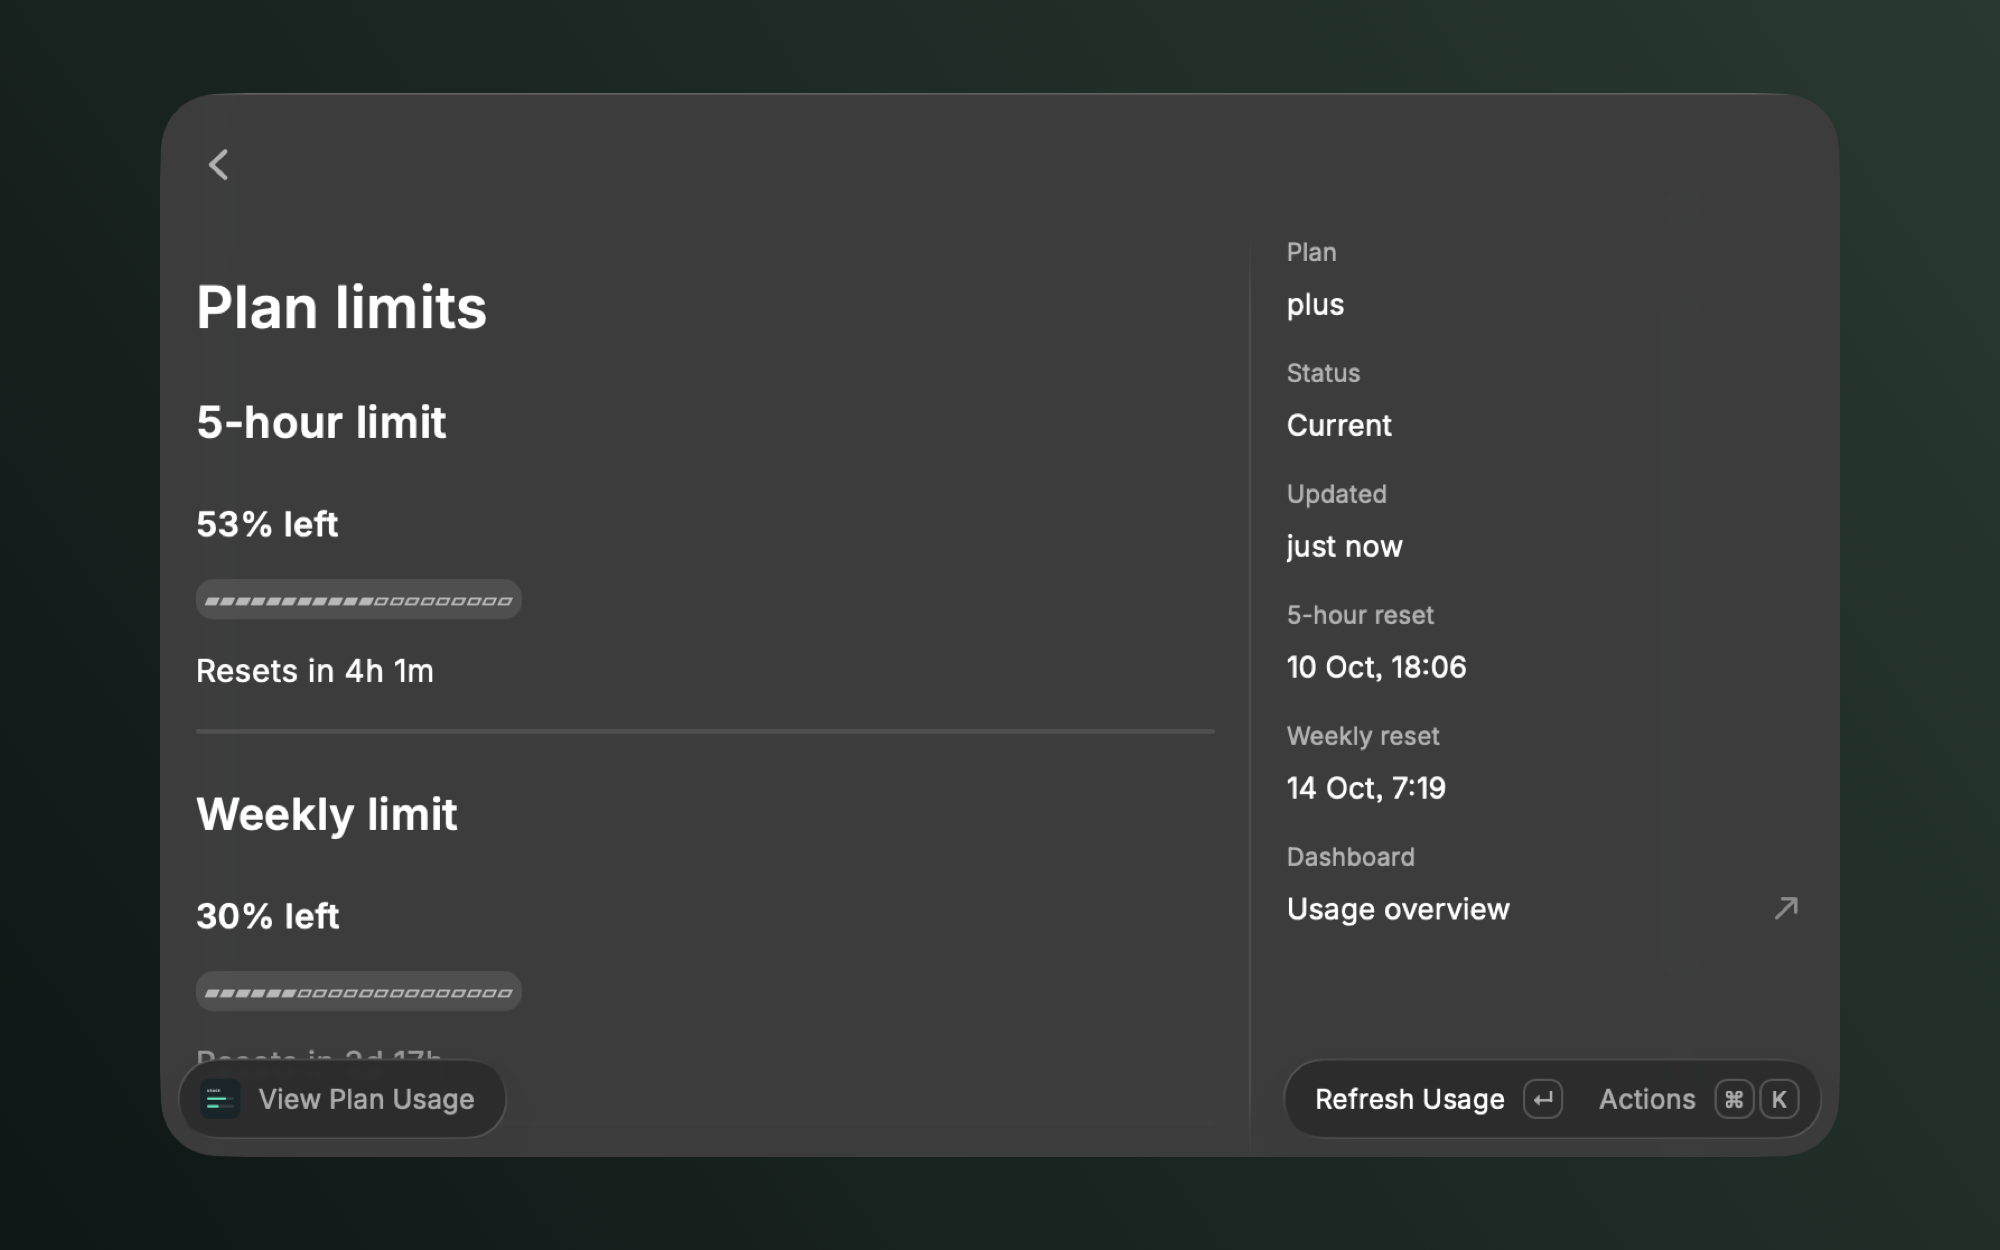
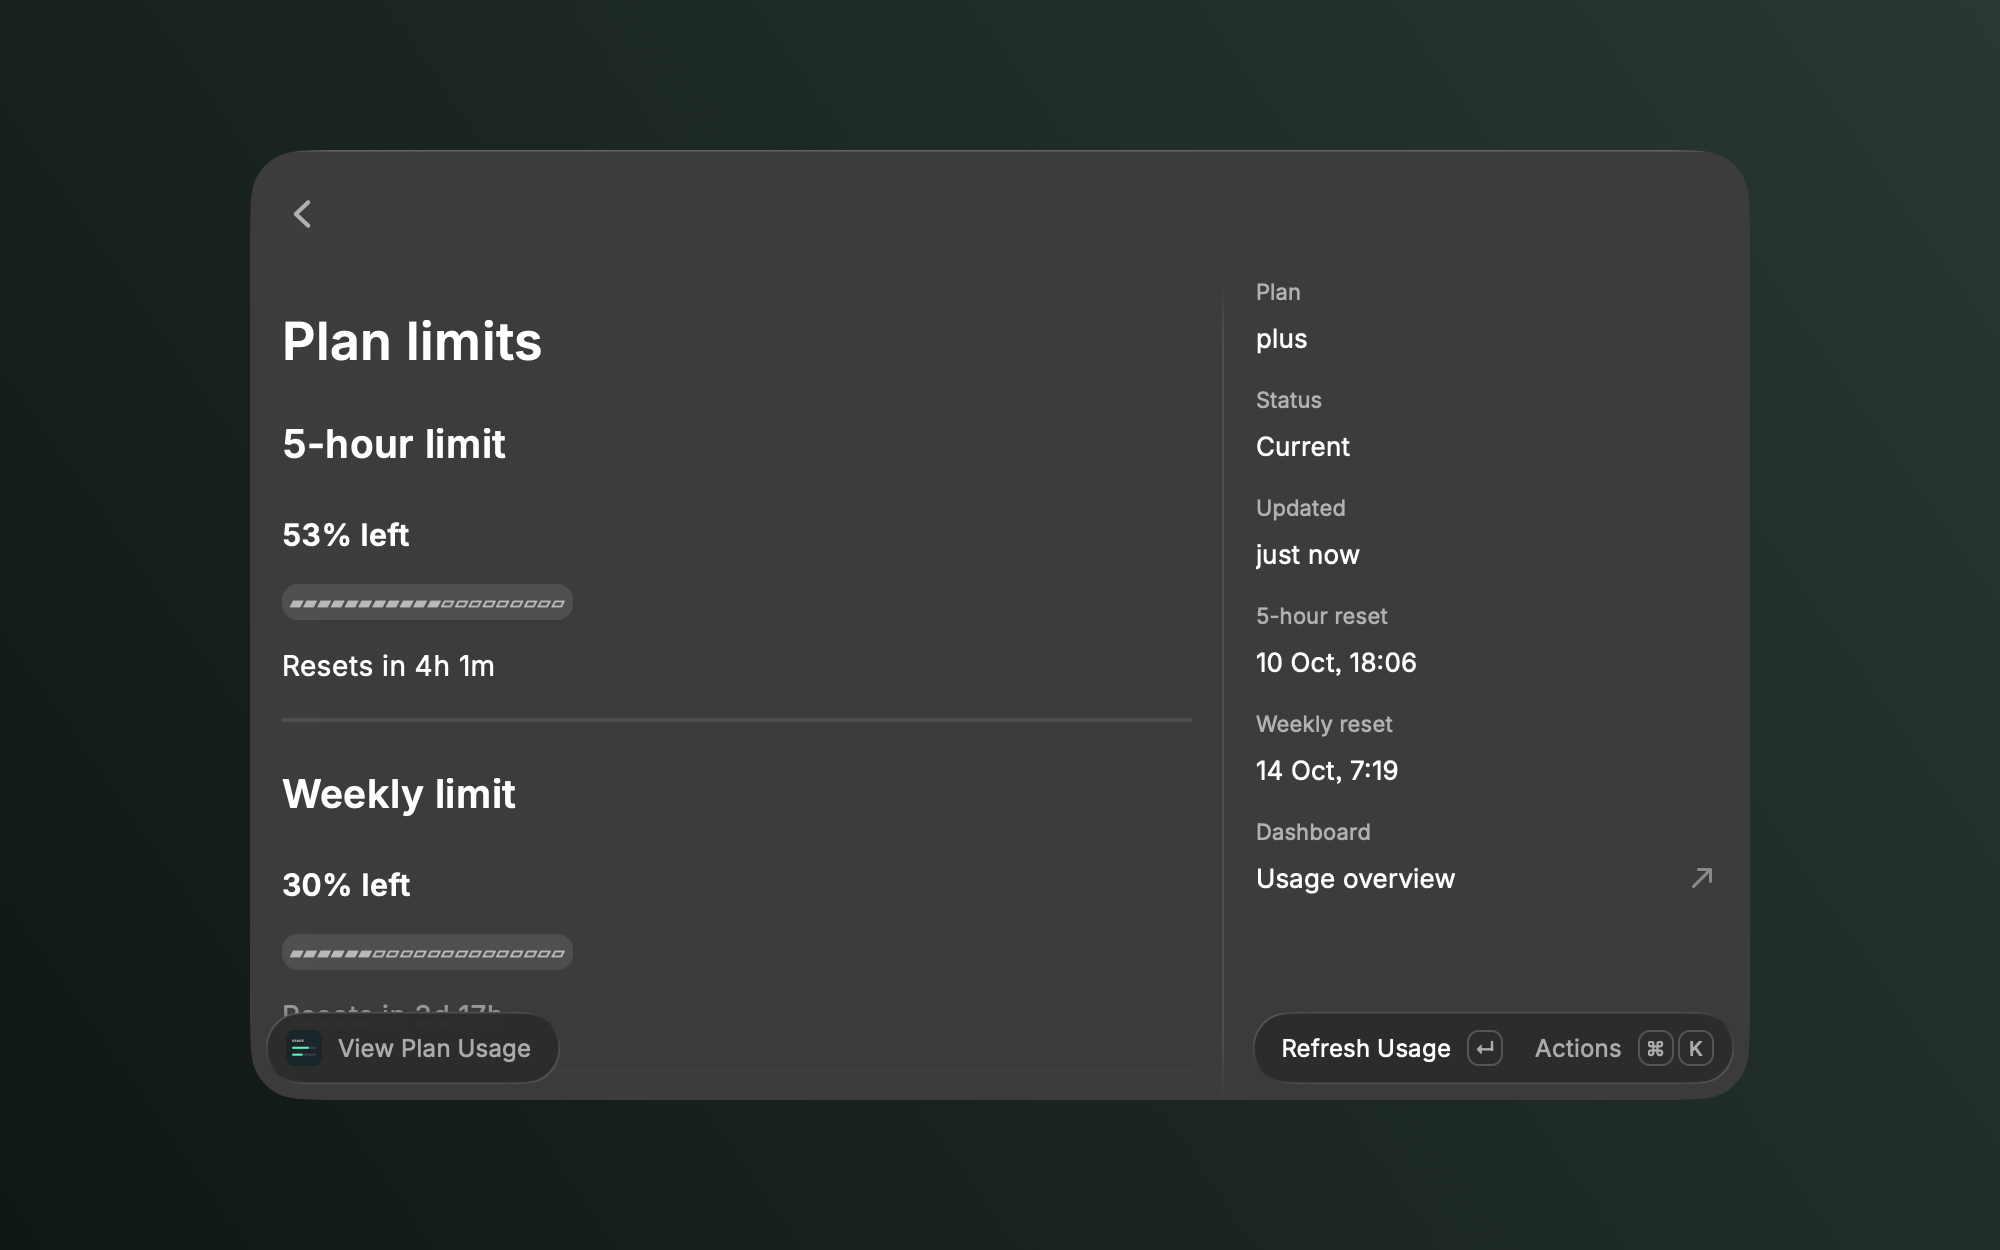
Fix Store screenshot padding and move menu capture to docs

Changed region(s): [[0.062, 0.0624, 0.93, 0.936], [0.62, 0.2808, 0.775, 0.7488], [0.62, 0.1872, 0.682, 0.2808]]

diff --git a/README.md b/README.md
@@ -10,6 +10,8 @@ Click it to see remaining percentages, quota-window reset times, last update tim
 
 Enable **Hide Dial Icon** in extension preferences for a text-only menu-bar item. It only hides the menu-bar dial, not the icons inside the menu. **Icon Only** mode keeps the dial visible so the item remains accessible, and error indicators are always shown.
 
+![ChatGPT usage in Raycast's menu bar](media/chatgpt-usage-menu-bar.png)
+
 Run **View Plan Usage** in the launcher to see both limits inline, with progress bars, reset times, and plan/update details. You can also open this view from the menu-bar item's **View Plan Usage** action. Press **⌘R** to refresh. Both commands share cached readings and show errors without hiding the last successful result.
 
 All dashboard links open [ChatGPT's usage overview](https://chatgpt.com/settings/usage?tab=overview).
@@ -102,3 +104,5 @@ The bundled icon can be regenerated on macOS with `swift scripts/generate-icon.s
 The native helper is bundled, so normal builds don't require a Swift compiler. After modifying its source, run `npm run build:helper` with Xcode Command Line Tools installed to rebuild and ad-hoc sign the universal binary. Commit the helper binary together with its source when distributing the extension.
 
 Linting checks all source and test files with ESLint and Prettier. Before publishing to the Store, set `author` in `package.json` to your registered Raycast Store handle, then run `npm run lint:store` for full manifest and metadata validation. A Store account isn't needed for local installation.
+
+Store screenshot CI is stricter than `lint:store`: it checks Raycast window detection, approximately 12.5% symmetric padding, and consistent backgrounds. Use Raycast **Window Capture → Save to Metadata** when available, and validate the complete image set with [`scripts/check_metadata_images.py`](https://github.com/raycast/extensions/blob/main/scripts/check_metadata_images.py) in the Raycast extensions repository before submitting. Menu-bar-only captures belong in `media/` for documentation, not in Store `metadata/`.
